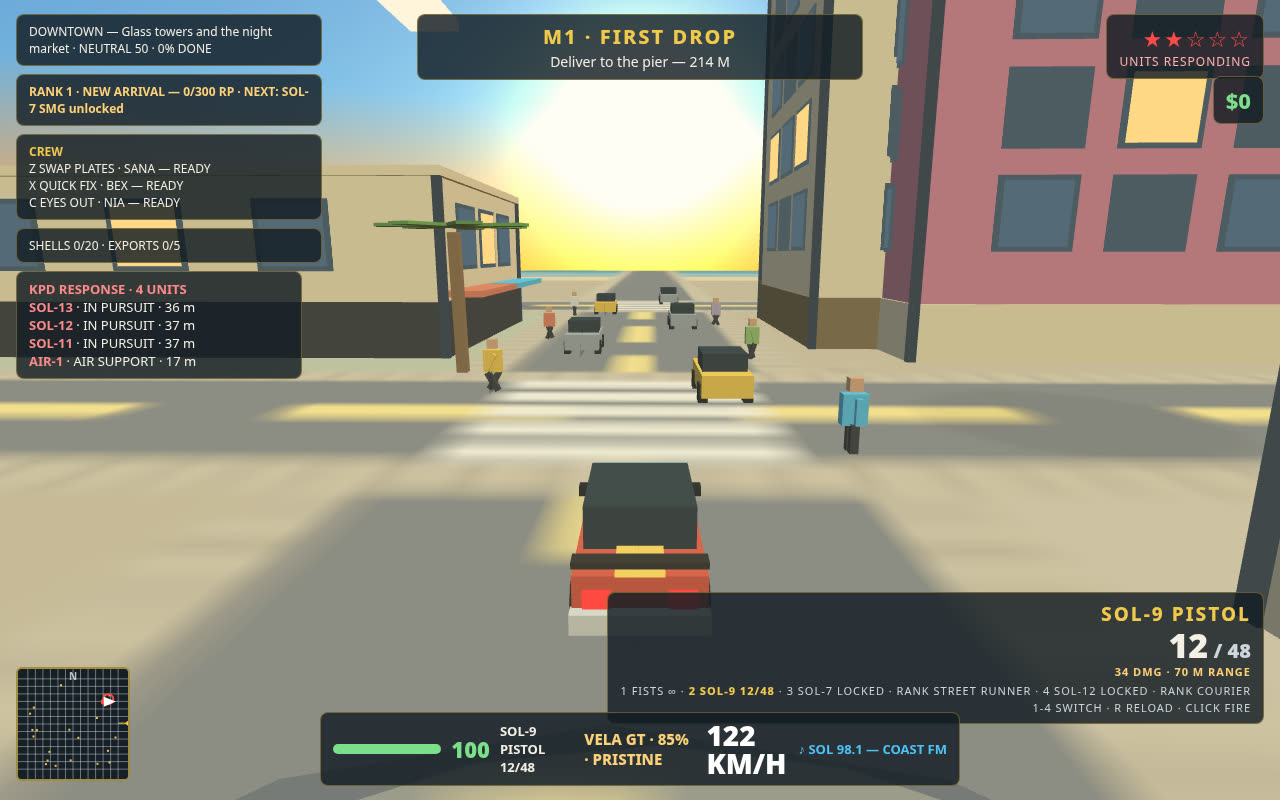
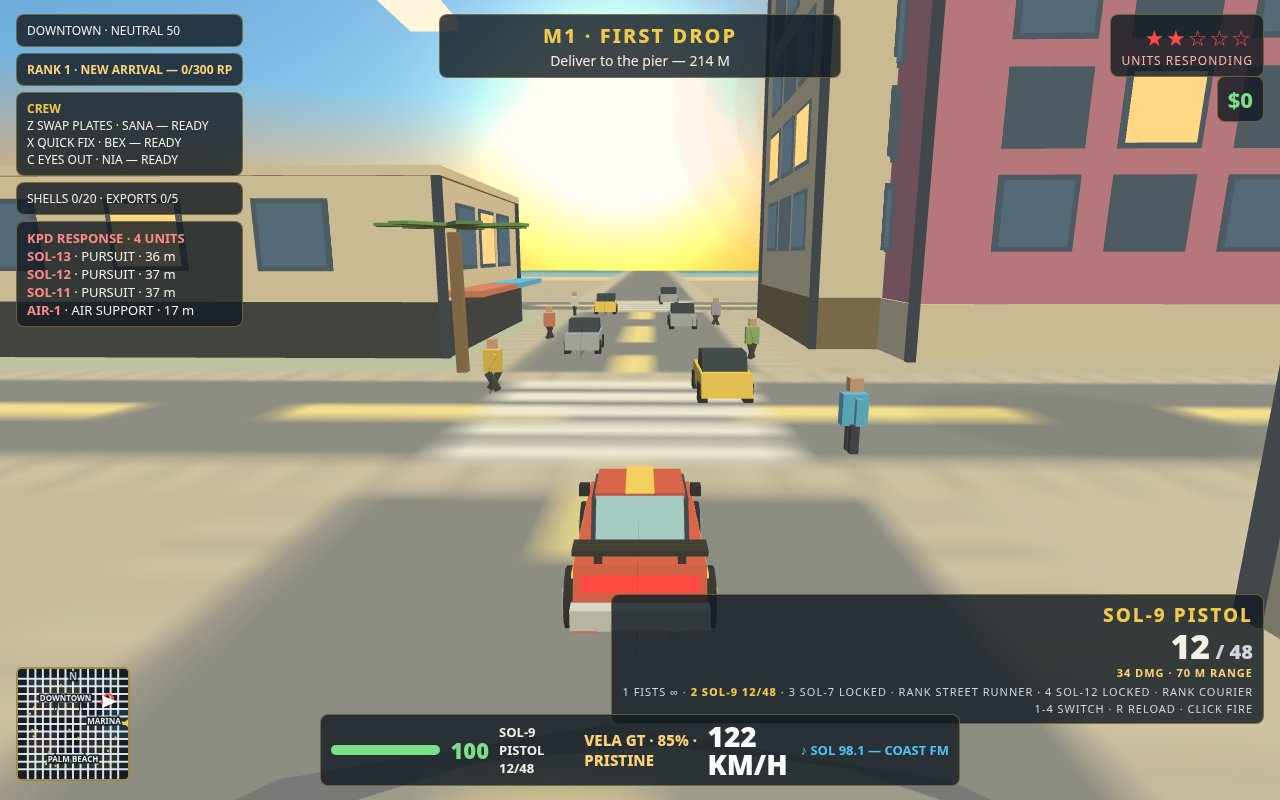
Rebuild C1 v4.1: declutter HUD, readable minimap, hero car reads as a car
- HUD: dialog moves to the free mid-left band (clear of minimap,
  bottombar and hero); crime feed moves to the right above the weapon
  panel; left column slimmed to one line per panel (district, rank
  without NEXT, PURSUIT dispatch); banner narrowed so the sun halo
  no longer crowds it.
- Minimap: roads thick + bright, district tints, DOWNTOWN / MARINA /
  PALM BEACH labels with dark outline, bolder gold causeway, bigger
  player arrow and objective diamond.
- Hero car: tapered body + glasshouse (sloped nose/tail, sloped
  windshield + rear window), roof + gold stripe, flank pinstripes,
  side skirts, full-width taillight bar, spoiler on struts, exhausts,
  proud wheels with hubcaps. Same taper on traffic + police bodies.
- Sun: smaller core, five-step halo falloff, moved east/up, wisps
  reframed so no cloud bar crosses the disc; sky shader sunDir moved
  with it.
- No sim logic touched: weapons/crew/rank/heli untouched.

diff --git a/game/src/render.js b/game/src/render.js
@@ -264,7 +264,7 @@ export function createRenderer(canvas, city) {
       top: { value: new THREE.Color(0x2b7cd3) },
       mid: { value: new THREE.Color(0x8ec9ee) },
       bot: { value: new THREE.Color(0xffc46b) },
-      sunDir: { value: new THREE.Vector3(480, 55, -60).normalize() },
+      sunDir: { value: new THREE.Vector3(520, 62, -80).normalize() },
       sunCol: { value: new THREE.Color(0xfff2c0) },
     },
     vertexShader: 'varying vec3 vDir; void main() { vDir = normalize(position); gl_Position = projectionMatrix * modelViewMatrix * vec4(position, 1.0); }',
@@ -468,19 +468,30 @@ export function createRenderer(canvas, city) {
   }
 
   // Sun low over the sea to the east — a smaller, hotter core with three
-  // layered halos, so it reads as a blazing sun with real glow instead of a
-  // flat pale disc. Clouds are puffy clusters (a base slab plus a smaller cap
-  // and a side puff, in white, cream, pink and pale blue) scattered at varied
-  // heights — never one flat plate, and never a bar drawn across the sun.
-  const sunDisc = new THREE.Mesh(new THREE.SphereGeometry(22, 24, 12), new THREE.MeshBasicMaterial({ color: 0xfffbe8, fog: false }));
-  sunDisc.position.set(480, 55, -60);
+  // layered halos that fade outward in steps, so it reads as a blazing sun
+  // with real glow instead of a flat pale disc. Moved east and up so its halo
+  // no longer crowds the mission banner. Clouds are puffy clusters (a base
+  // slab plus a smaller cap and a side puff, in white, cream, pink and pale
+  // blue) scattered at varied heights — never one flat plate, and never a bar
+  // drawn across the sun.
+  const sunDisc = new THREE.Mesh(new THREE.SphereGeometry(19, 24, 12), new THREE.MeshBasicMaterial({ color: 0xfffbe8, fog: false }));
+  sunDisc.position.set(520, 62, -80);
   scene.add(sunDisc);
-  const halo1 = new THREE.Mesh(new THREE.SphereGeometry(34, 24, 12), new THREE.MeshBasicMaterial({ color: 0xffd27a, transparent: true, opacity: 0.45, fog: false }));
-  halo1.position.set(480, 55, -60);
+  const halo1 = new THREE.Mesh(new THREE.SphereGeometry(28, 24, 12), new THREE.MeshBasicMaterial({ color: 0xffd27a, transparent: true, opacity: 0.4, fog: false }));
+  halo1.position.set(520, 62, -80);
   scene.add(halo1);
-  const halo2 = new THREE.Mesh(new THREE.SphereGeometry(58, 24, 12), new THREE.MeshBasicMaterial({ color: 0xff9a5a, transparent: true, opacity: 0.18, fog: false }));
-  halo2.position.set(480, 55, -60);
+  const halo1b = new THREE.Mesh(new THREE.SphereGeometry(36, 24, 12), new THREE.MeshBasicMaterial({ color: 0xffc27a, transparent: true, opacity: 0.28, fog: false }));
+  halo1b.position.set(520, 62, -80);
+  scene.add(halo1b);
+  const halo2 = new THREE.Mesh(new THREE.SphereGeometry(44, 24, 12), new THREE.MeshBasicMaterial({ color: 0xff9a5a, transparent: true, opacity: 0.16, fog: false }));
+  halo2.position.set(520, 62, -80);
   scene.add(halo2);
+  const halo2b = new THREE.Mesh(new THREE.SphereGeometry(56, 24, 12), new THREE.MeshBasicMaterial({ color: 0xff9a5a, transparent: true, opacity: 0.09, fog: false }));
+  halo2b.position.set(520, 62, -80);
+  scene.add(halo2b);
+  const halo3 = new THREE.Mesh(new THREE.SphereGeometry(68, 24, 12), new THREE.MeshBasicMaterial({ color: 0xff9a5a, transparent: true, opacity: 0.07, fog: false }));
+  halo3.position.set(520, 62, -80);
+  scene.add(halo3);
   const cloudParts = [];
   const CLOUD_COLS = [0xffffff, 0xffe9d0, 0xffd9c0, 0xd6ecff, 0xfff6e0];
   for (let i = 0; i < 26; i += 1) {
@@ -498,64 +509,115 @@ export function createRenderer(canvas, city) {
   // Two small wisps near the sun, offset so they frame it without crossing it.
   cloudParts.push({ x: 420, y: 78, z: -110, w: 60, h: 3.5, d: 20, color: 0xffe9d0 });
   cloudParts.push({ x: 420, y: 74, z: -102, w: 30, h: 3, d: 14, color: 0xffffff });
-  cloudParts.push({ x: 440, y: 34, z: -10, w: 55, h: 3.5, d: 18, color: 0xffd9c0 });
-  cloudParts.push({ x: 444, y: 31, z: -4, w: 26, h: 3, d: 12, color: 0xffffff });
+  cloudParts.push({ x: 352, y: 88, z: -70, w: 55, h: 3.5, d: 18, color: 0xffd9c0 });
+  cloudParts.push({ x: 356, y: 85, z: -64, w: 26, h: 3, d: 12, color: 0xffffff });
   scene.add(new THREE.Mesh(mergeBoxes(cloudParts), new THREE.MeshBasicMaterial({ vertexColors: true, fog: false })));
 
-  // Hero car: one group of boxes, recoloured when Rio steals another model.
+  // Taper a car box toward the top: the top-front corner pulls back (sloped
+  // nose / windshield) and the top-rear corner pulls forward (sloped tail /
+  // rear window), so a box reads as a car body instead of a block. Only the x
+  // of top vertices moves, so every face stays planar and the silhouette gets
+  // its slope for free on the hero, traffic and police alike.
+  function taperTop(geo, frontShift, rearShift) {
+    const pos = geo.attributes.position;
+    for (let i = 0; i < pos.count; i += 1) {
+      if (pos.getY(i) > 0) pos.setX(i, pos.getX(i) + (pos.getX(i) > 0 ? -frontShift : rearShift));
+    }
+    geo.computeVertexNormals();
+    return geo;
+  }
+
+  // Hero car: tapered body + tapered glasshouse with sloped windshield and
+  // rear window, roof + gold stripe, full-width taillight bar, spoiler on
+  // struts, exhausts, side skirts and pinstripes, and wheels that stand proud
+  // of the body with hubcaps — it must read as a car from behind, not a red
+  // box. Local +X is forward.
   const hero = new THREE.Group();
   const heroBodyMat = new THREE.MeshLambertMaterial({ color: CAR_MODELS[0].color });
-  const heroBody = new THREE.Mesh(new THREE.BoxGeometry(4.4, 0.85, 1.9), heroBodyMat);
+  const heroBody = new THREE.Mesh(taperTop(new THREE.BoxGeometry(4.4, 0.85, 1.9), 0.35, 0.35), heroBodyMat);
   heroBody.position.y = 0.75;
   hero.add(heroBody);
-  const heroCabin = new THREE.Mesh(new THREE.BoxGeometry(2.2, 0.7, 1.7), new THREE.MeshLambertMaterial({ color: 0x22303c }));
-  heroCabin.position.set(-0.2, 1.5, 0);
+  const heroCabin = new THREE.Mesh(taperTop(new THREE.BoxGeometry(2.0, 0.62, 1.5), 0.4, 0.35), new THREE.MeshLambertMaterial({ color: 0x22303c }));
+  heroCabin.position.set(-0.15, 1.48, 0);
   hero.add(heroCabin);
-  // Windshield + side glass, gold racing stripe, bumpers, grille, mirrors,
-  // taillights — the hero car must read as a car at 30 m, not a red box.
-  const heroGlass = new THREE.Mesh(new THREE.BoxGeometry(0.5, 0.55, 1.6), new THREE.MeshLambertMaterial({ color: 0x9fd4e8 }));
-  heroGlass.position.set(0.95, 1.5, 0);
-  hero.add(heroGlass);
-  const heroStripe = new THREE.Mesh(new THREE.BoxGeometry(4.45, 0.06, 0.7), new THREE.MeshBasicMaterial({ color: 0xf2c94c }));
-  heroStripe.position.set(0, 1.2, 0);
-  hero.add(heroStripe);
+  // Sloped glass on the tapered faces: windshield leans back, rear window
+  // leans forward, both proud of the dark glasshouse.
+  const heroGlassMat = new THREE.MeshLambertMaterial({ color: 0x9fd4e8 });
+  const heroWindshield = new THREE.Mesh(new THREE.BoxGeometry(0.06, 0.8, 1.35), heroGlassMat);
+  heroWindshield.position.set(0.67, 1.5, 0);
+  heroWindshield.rotation.z = 0.57;
+  hero.add(heroWindshield);
+  const heroRearGlass = new THREE.Mesh(new THREE.BoxGeometry(0.06, 0.76, 1.35), heroGlassMat);
+  heroRearGlass.position.set(-0.99, 1.5, 0);
+  heroRearGlass.rotation.z = -0.51;
+  hero.add(heroRearGlass);
+  const heroRoof = new THREE.Mesh(new THREE.BoxGeometry(1.25, 0.1, 1.4), heroBodyMat);
+  heroRoof.position.set(-0.175, 1.83, 0);
+  hero.add(heroRoof);
+  const heroRoofStripe = new THREE.Mesh(new THREE.BoxGeometry(1.25, 0.06, 0.45), new THREE.MeshBasicMaterial({ color: 0xf2c94c }));
+  heroRoofStripe.position.set(-0.175, 1.9, 0);
+  hero.add(heroRoofStripe);
+  // Gold pinstripe along each flank + dark side skirts: the crisp body lines.
+  for (const sz of [0.97, -0.97]) {
+    const pin = new THREE.Mesh(new THREE.BoxGeometry(3.6, 0.07, 0.04), new THREE.MeshBasicMaterial({ color: 0xf2c94c }));
+    pin.position.set(0, 0.98, sz);
+    hero.add(pin);
+    const skirt = new THREE.Mesh(new THREE.BoxGeometry(3.4, 0.16, 0.06), new THREE.MeshLambertMaterial({ color: 0x14181d }));
+    skirt.position.set(0, 0.34, Math.sign(sz) * 0.96);
+    hero.add(skirt);
+  }
   const heroBumperF = new THREE.Mesh(new THREE.BoxGeometry(0.25, 0.3, 1.95), new THREE.MeshLambertMaterial({ color: 0xd8dde2 }));
-  heroBumperF.position.set(2.28, 0.55, 0);
+  heroBumperF.position.set(2.16, 0.55, 0);
   hero.add(heroBumperF);
   const heroBumperR = new THREE.Mesh(new THREE.BoxGeometry(0.25, 0.3, 1.95), new THREE.MeshLambertMaterial({ color: 0xd8dde2 }));
-  heroBumperR.position.set(-2.28, 0.55, 0);
+  heroBumperR.position.set(-2.16, 0.55, 0);
   hero.add(heroBumperR);
   const heroGrille = new THREE.Mesh(new THREE.BoxGeometry(0.1, 0.3, 1.2), new THREE.MeshLambertMaterial({ color: 0x14181d }));
-  heroGrille.position.set(2.24, 0.85, 0);
+  heroGrille.position.set(2.02, 0.85, 0);
   hero.add(heroGrille);
   for (const mz of [1.0, -1.0]) {
     const mir = new THREE.Mesh(new THREE.BoxGeometry(0.25, 0.18, 0.18), new THREE.MeshLambertMaterial({ color: 0x14181d }));
     mir.position.set(0.9, 1.35, mz);
     hero.add(mir);
   }
-  const tailMat = new THREE.MeshBasicMaterial({ color: 0xff2a2a });
-  for (const tz of [0.6, -0.6]) {
-    const t = new THREE.Mesh(new THREE.BoxGeometry(0.12, 0.25, 0.4), tailMat);
-    t.position.set(-2.22, 0.85, tz);
-    hero.add(t);
+  // Full-width taillight bar across the tail, on the sloped rear face.
+  const heroTailBar = new THREE.Mesh(new THREE.BoxGeometry(0.1, 0.22, 1.7), new THREE.MeshBasicMaterial({ color: 0xff2a2a }));
+  heroTailBar.position.set(-1.99, 0.95, 0);
+  hero.add(heroTailBar);
+  // Spoiler blade on two struts, standing on the flat deck — no floating wing.
+  for (const sz of [0.6, -0.6]) {
+    const strut = new THREE.Mesh(new THREE.BoxGeometry(0.12, 0.3, 0.12), new THREE.MeshLambertMaterial({ color: 0x222222 }));
+    strut.position.set(-1.75, 1.27, sz);
+    hero.add(strut);
   }
-  const heroSpoiler = new THREE.Mesh(new THREE.BoxGeometry(0.3, 0.1, 1.9), new THREE.MeshLambertMaterial({ color: 0x222222 }));
-  heroSpoiler.position.set(-2.1, 1.35, 0);
+  const heroSpoiler = new THREE.Mesh(new THREE.BoxGeometry(0.4, 0.08, 1.9), new THREE.MeshLambertMaterial({ color: 0x222222 }));
+  heroSpoiler.position.set(-1.85, 1.44, 0);
   hero.add(heroSpoiler);
-  const wheelGeo = new THREE.CylinderGeometry(0.42, 0.42, 0.35, 10);
+  // Twin exhausts under the rear bumper.
+  for (const ez of [0.5, -0.5]) {
+    const ex = new THREE.Mesh(new THREE.BoxGeometry(0.18, 0.14, 0.18), new THREE.MeshLambertMaterial({ color: 0x9aa0a6 }));
+    ex.position.set(-2.2, 0.32, ez);
+    hero.add(ex);
+  }
+  const wheelGeo = new THREE.CylinderGeometry(0.46, 0.46, 0.38, 10);
   wheelGeo.rotateX(Math.PI / 2);
   const wheelMat = new THREE.MeshLambertMaterial({ color: 0x14181d });
+  const hubGeo = new THREE.BoxGeometry(0.34, 0.34, 0.06);
+  const hubMat = new THREE.MeshLambertMaterial({ color: 0xb9c0c7 });
   const heroWheels = [];
-  for (const [wx, wz] of [[1.4, 0.85], [1.4, -0.85], [-1.4, 0.85], [-1.4, -0.85]]) {
+  for (const [wx, wz] of [[1.4, 0.92], [1.4, -0.92], [-1.4, 0.92], [-1.4, -0.92]]) {
     const w = new THREE.Mesh(wheelGeo, wheelMat);
-    w.position.set(wx, 0.42, wz);
+    w.position.set(wx, 0.46, wz);
     hero.add(w);
     heroWheels.push(w);
+    const hub = new THREE.Mesh(hubGeo, hubMat);
+    hub.position.set(wx, 0.46, wz + Math.sign(wz) * 0.2);
+    hero.add(hub);
   }
   const headMat = new THREE.MeshBasicMaterial({ color: 0xfff6c0 });
   for (const hz of [0.6, -0.6]) {
     const h = new THREE.Mesh(new THREE.BoxGeometry(0.15, 0.25, 0.4), headMat);
-    h.position.set(2.22, 0.8, hz);
+    h.position.set(2.06, 0.8, hz);
     hero.add(h);
   }
   scene.add(hero);
@@ -578,10 +640,12 @@ export function createRenderer(canvas, city) {
   rioParts.legR = rioBox(0.26, 0.85, 0.26, 0x2c313a, 0.18, 0.42, 0);
   scene.add(rio);
 
-  // Traffic: three InstancedMesh pools (body, cabin, wheels x4).
+  // Traffic: three InstancedMesh pools (body, cabin, wheels x4). Bodies and
+  // cabins get the same top taper as the hero, so NPC cars and cruisers read
+  // as cars too instead of boxes.
   const MAX_CARS = 34;
-  const bodyGeo = new THREE.BoxGeometry(4.4, 0.85, 1.9);
-  const cabinGeo = new THREE.BoxGeometry(2.2, 0.7, 1.7);
+  const bodyGeo = taperTop(new THREE.BoxGeometry(4.4, 0.85, 1.9), 0.35, 0.35);
+  const cabinGeo = taperTop(new THREE.BoxGeometry(2.2, 0.7, 1.7), 0.45, 0.4);
   const wheelGeoI = new THREE.BoxGeometry(0.7, 0.7, 0.35);
   const trafficBodies = new THREE.InstancedMesh(bodyGeo, new THREE.MeshLambertMaterial({ color: 0xffffff }), MAX_CARS);
   const trafficCabins = new THREE.InstancedMesh(cabinGeo, new THREE.MeshLambertMaterial({ color: 0x22303c }), MAX_CARS);

diff --git a/game/src/hud.js b/game/src/hud.js
@@ -62,9 +62,17 @@ export function createHud(callbacks) {
     ctx.clearRect(0, 0, size, size);
     ctx.fillStyle = 'rgba(20, 28, 36, 0.88)';
     ctx.fillRect(0, 0, size, size);
-    // Roads.
-    ctx.strokeStyle = 'rgba(200, 205, 215, 0.5)';
-    ctx.lineWidth = big ? 3 : 1;
+    // District tints, so the blocks read as neighbourhoods, not a bare grid.
+    if (!big) {
+      for (const d of DISTRICTS) {
+        ctx.fillStyle = `${d.color}24`;
+        ctx.fillRect(toX(d.x0), toZ(d.z0), (d.x1 - d.x0) * s, (d.z1 - d.z0) * s);
+      }
+    }
+    // Roads: thick and bright on the small map, so the street grid reads at
+    // 110 px the way the round v1 minimap's grid did.
+    ctx.strokeStyle = big ? 'rgba(200, 205, 215, 0.5)' : 'rgba(238, 241, 245, 0.92)';
+    ctx.lineWidth = big ? 3 : 2;
     for (const r of state.city.roads) {
       ctx.beginPath();
       ctx.moveTo(toX(r), 0);
@@ -75,8 +83,9 @@ export function createHud(callbacks) {
       ctx.lineTo(size, toZ(r));
       ctx.stroke();
     }
-    // Causeway + pier.
+    // Causeway + pier: a bold gold route, not a hairline.
     ctx.strokeStyle = '#f2c94c';
+    ctx.lineWidth = big ? 3 : 3;
     ctx.beginPath();
     ctx.moveTo(toX(CITY.gridMax), toZ(-6));
     ctx.lineTo(toX(CITY.pier.x), toZ(-6));
@@ -93,7 +102,7 @@ export function createHud(callbacks) {
       ctx.translate(toX(o.x), toZ(o.z));
       ctx.rotate(Math.PI / 4);
       ctx.fillStyle = '#f2c94c';
-      const r = big ? 7 : 4;
+      const r = big ? 7 : 5;
       ctx.fillRect(-r, -r, r * 2, r * 2);
       ctx.restore();
     }
@@ -131,12 +140,31 @@ export function createHud(callbacks) {
     ctx.rotate(-heading);
     ctx.fillStyle = '#ffffff';
     ctx.beginPath();
-    ctx.moveTo(7, 0);
-    ctx.lineTo(-5, -5);
-    ctx.lineTo(-5, 5);
+    ctx.moveTo(8, 0);
+    ctx.lineTo(-6, -6);
+    ctx.lineTo(-6, 6);
     ctx.closePath();
     ctx.fill();
     ctx.restore();
+    // District labels on the small map too — the three a player navigates by.
+    // Clamped inside the frame so MARINA, half off the east edge, still reads.
+    // Dark outline under the white text, so the letters survive the bright grid.
+    if (!big) {
+      ctx.fillStyle = 'rgba(255,255,255,0.92)';
+      ctx.font = 'bold 8px system-ui, sans-serif';
+      ctx.textAlign = 'center';
+      ctx.strokeStyle = 'rgba(20,28,36,0.9)';
+      ctx.lineWidth = 3;
+      for (const name of ['DOWNTOWN', 'MARINA', 'PALM BEACH']) {
+        const d = DISTRICTS.find((dd) => dd.name === name);
+        const cx = (d.x0 + d.x1) / 2;
+        const cz = (d.z0 + d.z1) / 2;
+        const lx = Math.max(22, Math.min(size - 24, toX(cx)));
+        const ly = toZ(cz);
+        ctx.strokeText(name, lx, ly);
+        ctx.fillText(name, lx, ly);
+      }
+    }
     // District names on the big pause map, so it reads as a city, not a grid.
     if (big) {
       ctx.fillStyle = 'rgba(255,255,255,0.85)';
@@ -160,6 +188,9 @@ export function createHud(callbacks) {
     ctx.fillStyle = 'rgba(255,255,255,0.7)';
     ctx.font = `bold ${big ? 14 : 10}px system-ui, sans-serif`;
     ctx.textAlign = 'center';
+    ctx.strokeStyle = 'rgba(20,28,36,0.9)';
+    ctx.lineWidth = 3;
+    ctx.strokeText('N', size / 2, big ? 16 : 11);
     ctx.fillText('N', size / 2, big ? 16 : 11);
   }
 
@@ -211,10 +242,10 @@ export function createHud(callbacks) {
     el('cash').textContent = `$${s.cash.toLocaleString('en-US')}`;
     el('health-fill').style.width = `${Math.max(0, p.health)}%`;
     el('health-num').textContent = `${Math.round(p.health)}`;
-    // Rank: number, name, XP to the next rung and what it opens.
+    // Rank: number, name and XP to the next rung — one line, no wrap.
     const rp = rankProgress(s.rank);
     el('rank').textContent = rp.nextXp !== null
-      ? `RANK ${rp.level + 1} · ${rp.name} — ${rp.xp}/${rp.nextXp} RP · NEXT: ${rp.nextUnlock}`
+      ? `RANK ${rp.level + 1} · ${rp.name} — ${rp.xp}/${rp.nextXp} RP`
       : `RANK ${rp.level + 1} · ${rp.name} — ${rp.xp} RP · MAX RANK`;
     // Crew: each ability, its key, its member, READY or the seconds left.
     el('crew').innerHTML = `<div><b>CREW</b></div>` + CREW.map((c, i) => {
@@ -254,7 +285,7 @@ export function createHud(callbacks) {
       ? `${CAR_MODELS[s.heroCar.model].name} · ${100 - dmg}% · ${cond}`
       : 'ON FOOT';
     const di = state.districtIndex;
-    el('district').textContent = `${DISTRICTS[di].name} — ${DISTRICTS[di].tag} · ${s.standing[di] >= 60 ? 'FRIENDLY' : s.standing[di] >= 40 ? 'NEUTRAL' : 'WARY'} ${s.standing[di]} · ${s.completionPct || 0}% DONE`;
+    el('district').textContent = `${DISTRICTS[di].name} · ${s.standing[di] >= 60 ? 'FRIENDLY' : s.standing[di] >= 40 ? 'NEUTRAL' : 'WARY'} ${s.standing[di]}`;
     el('shells').textContent = `SHELLS ${s.shellsTaken}/20 · EXPORTS ${s.exportsDone.length}/5`;
 
     // Dispatch panel: header counts the units, each line names the unit, its job
@@ -262,7 +293,6 @@ export function createHud(callbacks) {
     const disp = s.police.state.dispatch;
     el('dispatch').style.display = disp.length > 0 ? 'block' : 'none';
     el('dispatch-list').innerHTML = `<div><b>KPD RESPONSE · ${disp.length} UNIT${disp.length === 1 ? '' : 'S'}</b></div>` + disp.map((u) => `<div><b>${u.id}</b> · ${u.role} · ${u.dist} m</div>`).join('');
-
     // Dialog.
     const dlg = s.missions.state.dialog;
     if (dlg) {

diff --git a/game/index.html b/game/index.html
@@ -10,15 +10,15 @@
   #game { position: fixed; inset: 0; width: 100%; height: 100%; display: block; touch-action: none; }
   #status { position: absolute; width: 1px; height: 1px; overflow: hidden; clip-path: inset(50%); white-space: nowrap; }
   #hud { position: fixed; inset: 0; pointer-events: none; display: none; }
-  .panel { background: rgba(20, 28, 36, 0.82); border: 1px solid rgba(242, 201, 76, 0.35); border-radius: 8px; padding: 8px 12px; }
-  #banner { position: absolute; top: 14px; left: 50%; transform: translateX(-50%); text-align: center; min-width: 420px; }
+  .panel { background: rgba(20, 28, 36, 0.82); border: 1px solid rgba(242, 201, 76, 0.35); border-radius: 8px; padding: 7px 10px; }
+  #banner { position: absolute; top: 14px; left: 50%; transform: translateX(-50%); text-align: center; min-width: 380px; }
   #banner-line1 { font-size: 20px; font-weight: 800; letter-spacing: 2px; color: #f2c94c; }
   #banner-line2 { font-size: 14px; color: #f5f0e6; margin-top: 2px; }
   #wanted { position: absolute; top: 14px; right: 16px; text-align: right; }
   #wanted-stars { font-size: 22px; color: #ff4a4a; letter-spacing: 2px; }
   #wanted-tier { font-size: 12px; letter-spacing: 1px; color: #ffb3b3; }
   #cash { position: absolute; top: 76px; right: 16px; font-size: 22px; font-weight: 800; color: #7ddf8a; }
-  #leftcol { position: absolute; top: 14px; left: 16px; display: flex; flex-direction: column; gap: 8px; }
+  #leftcol { position: absolute; top: 14px; left: 16px; display: flex; flex-direction: column; gap: 6px; }
   #mapwrap { position: absolute; left: 16px; bottom: 14px; }
   #minimap { border: 2px solid rgba(242, 201, 76, 0.6); border-radius: 6px; background: rgba(20,28,36,0.85); }
   #weapon { position: absolute; right: 16px; bottom: 76px; text-align: right; min-width: 200px; }
@@ -36,7 +36,7 @@
   #shells { font-size: 12px; }
   #dispatch { font-size: 13px; max-width: 260px; }
   #dispatch b { color: #ff8a8a; }
-  #crimefeed { position: absolute; left: 16px; bottom: 300px; font-size: 13px; color: #ffd27a; text-shadow: 0 1px 2px #000; }
+  #crimefeed { position: absolute; right: 16px; bottom: 280px; text-align: right; font-size: 13px; color: #ffd27a; text-shadow: 0 1px 2px #000; }
   #crimefeed div { margin-top: 2px; }
   #bottombar { position: absolute; left: 50%; bottom: 14px; transform: translateX(-50%); display: flex; gap: 10px; align-items: center; }
   #health { width: 180px; }
@@ -46,7 +46,7 @@
   #speed { font-size: 28px; font-weight: 900; color: #ffffff; line-height: 1; }
   #carname { font-size: 15px; font-weight: 800; color: #ffd27a; }
   #radio { font-size: 13px; font-weight: 700; color: #4fc3f7; white-space: nowrap; }
-  #dialog { position: absolute; left: 16px; bottom: 150px; display: none; gap: 10px; align-items: center; width: 420px; }
+  #dialog { position: absolute; left: 16px; bottom: 190px; display: none; gap: 10px; align-items: center; width: 400px; }
   #portrait { border-radius: 6px; }
   #dialog-name { color: #f2c94c; font-weight: 800; letter-spacing: 1px; font-size: 13px; }
   #dialog-line { font-size: 15px; font-style: italic; }

diff --git a/game/src/police.js b/game/src/police.js
@@ -28,7 +28,7 @@ export function createPolice(random) {
     const p = snapToRoad(x + (random() - 0.5) * 120, z + (random() - 0.5) * 120);
     units.push({
       id, x: p.x, z: p.z, heading: random() * Math.PI * 2, speed: 0,
-      role: 'IN PURSUIT', mode: 'pursue', searchX: 0, searchZ: 0, searchT: 0,
+      role: 'PURSUIT', mode: 'pursue', searchX: 0, searchZ: 0, searchT: 0,
     });
     return units[units.length - 1];
   }
@@ -76,7 +76,7 @@ export function createPolice(random) {
       // The safehouse is sacred ground: units hold at its edge and the trail goes cold.
       if (dist < CITY.safehouse.radius + 12) {
         u.mode = 'hold';
-        u.role = 'HOLDING AT SAFEHOUSE';
+        u.role = 'HOLDING';
         u.speed = Math.max(0, u.speed - 20 * dt);
         return dist;
       }
@@ -84,7 +84,7 @@ export function createPolice(random) {
     if (u.mode === 'hold' && !inSafehouse) u.mode = 'pursue';
 
     if (u.mode === 'pursue') {
-      u.role = dist < 12 ? 'RAMMING' : dist < 40 ? 'IN PURSUIT' : 'RESPONDING';
+      u.role = dist < 12 ? 'RAMMING' : dist < 40 ? 'PURSUIT' : 'RESPONDING';
       const want = Math.atan2(-dz, dx);
       let d = want - u.heading;
       while (d > Math.PI) d -= Math.PI * 2;
